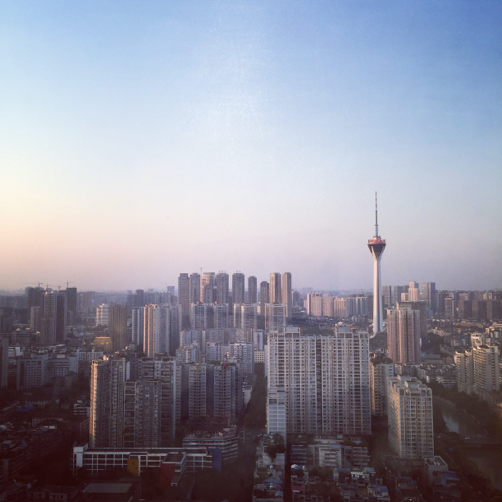
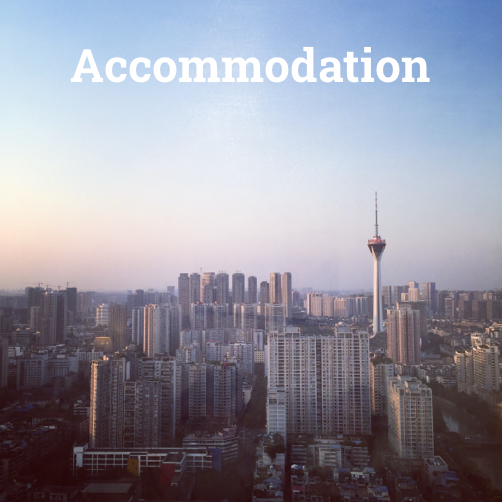
Updated the CSS and assets folder with new images

Changed region(s): [[0.1494, 0.0896, 0.8665, 0.1793]]

diff --git a/app/routables/en/styles.scss b/app/routables/en/styles.scss
@@ -7,9 +7,10 @@ section#hero {
   }
   h1 {
     color: #ac2323;
+    font: 70px "Chalkduster", RobotoSlab-Bold;
   }
   h1 {
-    margin-top: 70px;
+    margin-top: 30px;
     font-size: 80px;
   }
   img {
@@ -32,15 +33,21 @@ section#row-one {
     margin: 0px 10px 10px 0px;
     h3 {
       font-size: 40px;
+      color: #1d1d1f;
       padding: 0px 60px;
     }
     p {
       font-size: 27px;
+      line-height: 1;
+      color: #1d1d1f;
       padding: 0px 60px;
+      margin: 50px 0px;
     }
     a {
       font-size: 46px;
+      color: #132a85;
       padding: 0px 60px;
+      font-weight: bold;
     }
   }
   .right {
@@ -56,10 +63,13 @@ section#row-one {
     h2 {
       font-size: 46px;
       padding: 20px;
+      color: #132a85;
+      font-weight: bold;
     }
     h4 {
       padding: 20px;
       font-size: 34px;
+      color: #1d1d1f;
     }
   }
 }
@@ -71,9 +81,6 @@ section#row-two {
     margin: 10px 10px 10px 0px;
     img {
       position: relative;
-    }
-    h2 {
-      position: absolute;
     }
   }
 

diff --git a/app/styles/variables/fonts.scss b/app/styles/variables/fonts.scss
@@ -1,1 +1,1 @@
-$regular: "chalkduster", sans-serif;
+$regular: "RobotoSlab-Regular", sans-serif;
